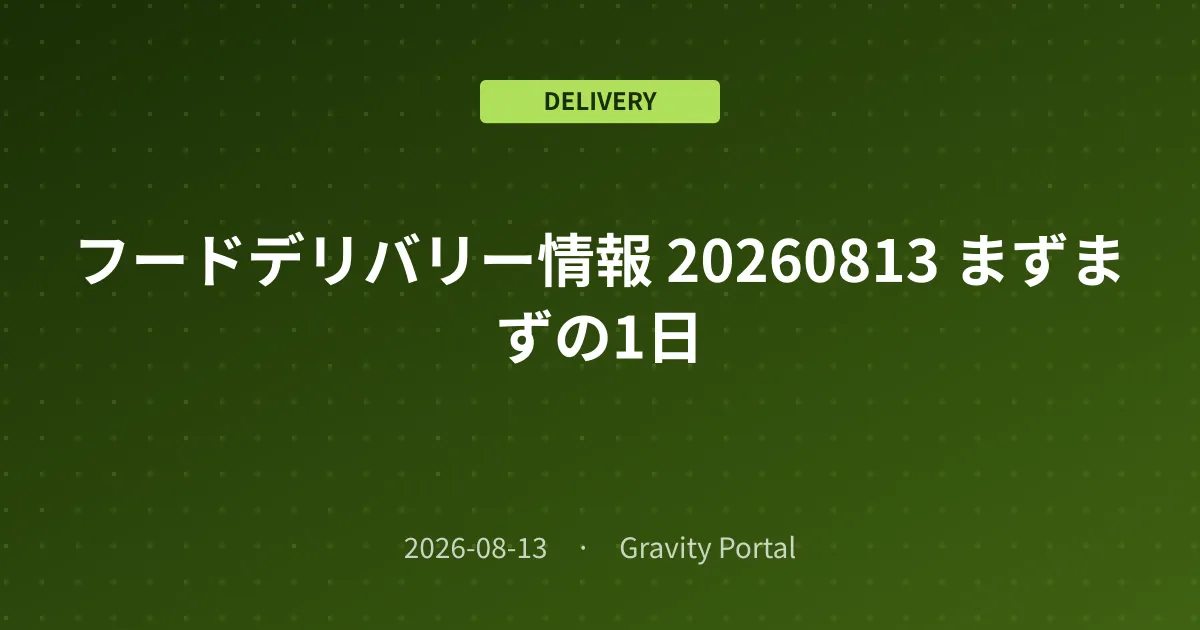
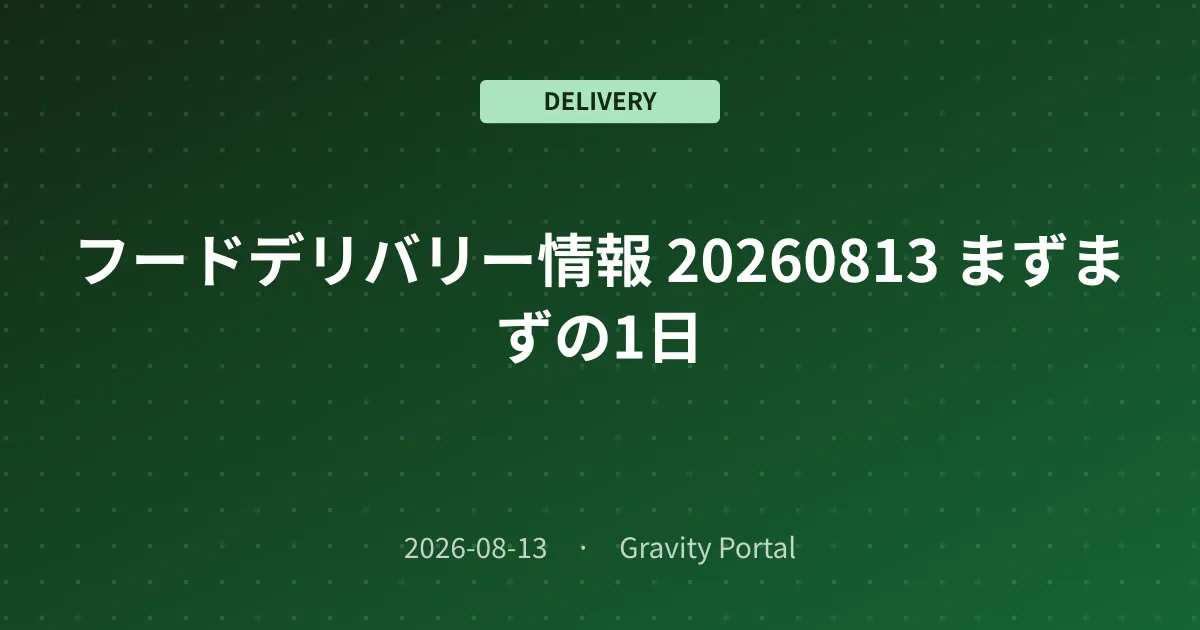
fix: 本文画像を中央寄せ、OGP画像の配色を曜日ごとに7パターン化
- .content img を中央寄せに変更（左寄せで表示されていたのを修正）
- OGP画像の背景配色が全タグ固定1色だったため、各タグに7バリエーション
  （日〜土）を用意し、記事のdateから曜日を算出して決定的に選択するよう変更
- 既存Uber日報2件のOGP画像を新配色で再生成

diff --git a/src/styles.css b/src/styles.css
@@ -525,10 +525,11 @@ html[data-theme="light"] .article-og-hero img {
 
 /* 画像 */
 .content img {
+    display: block;
     max-width: 100%;
     height: auto;
     border-radius: var(--radius-md);
-    margin: 1.25rem 0;
+    margin: 1.25rem auto;
     border: 1px solid var(--border);
 }
 
